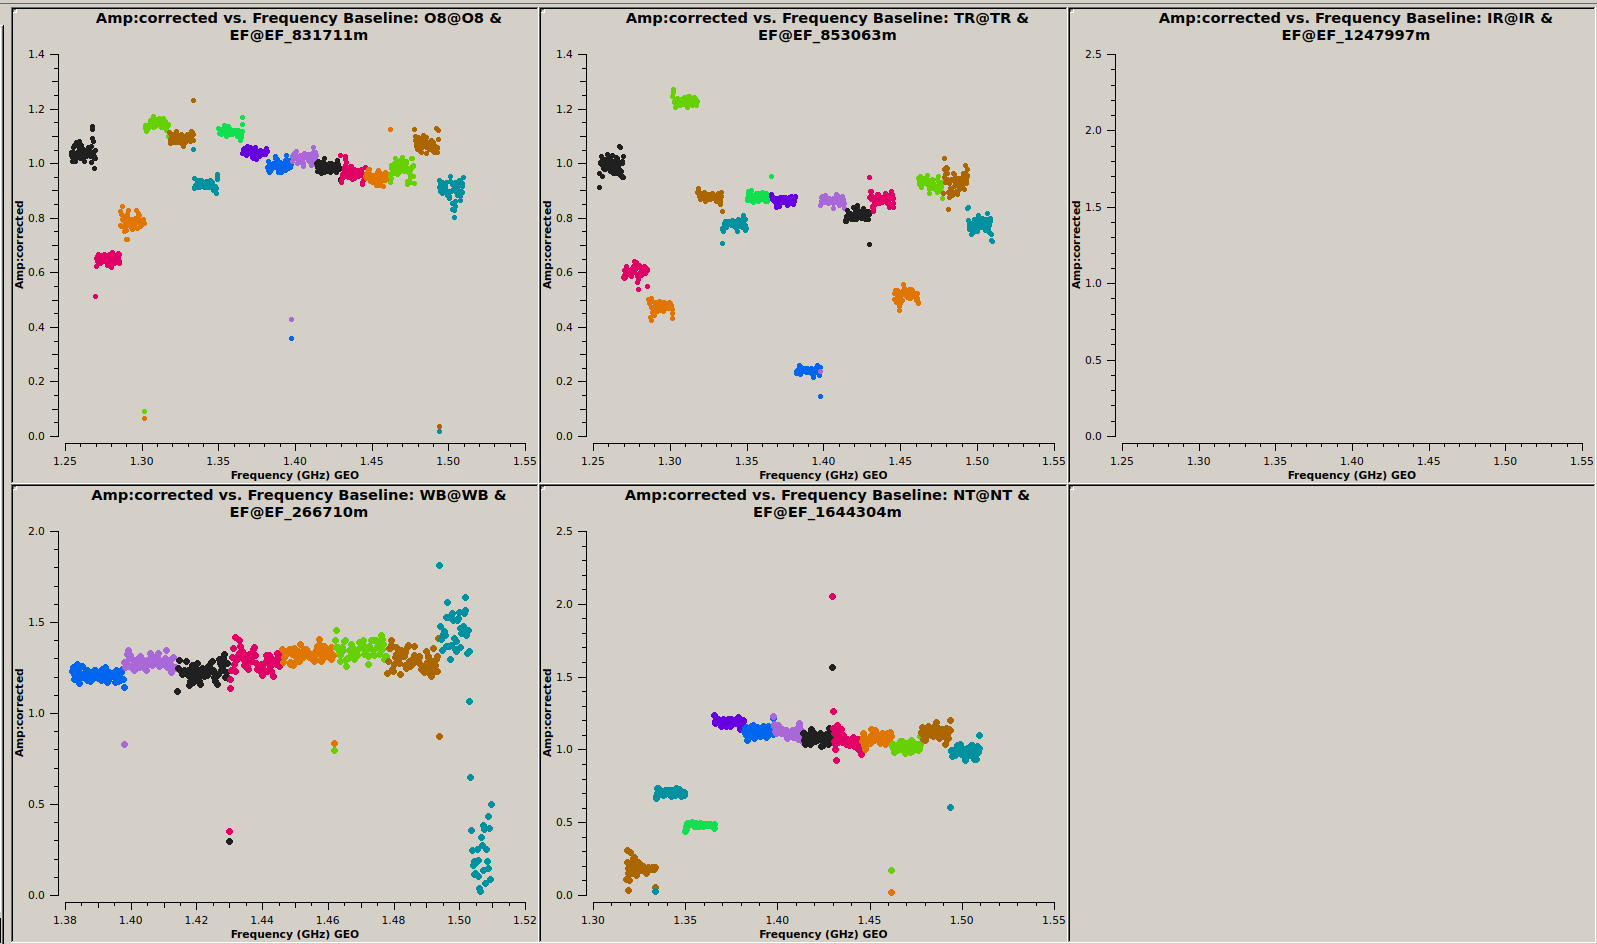
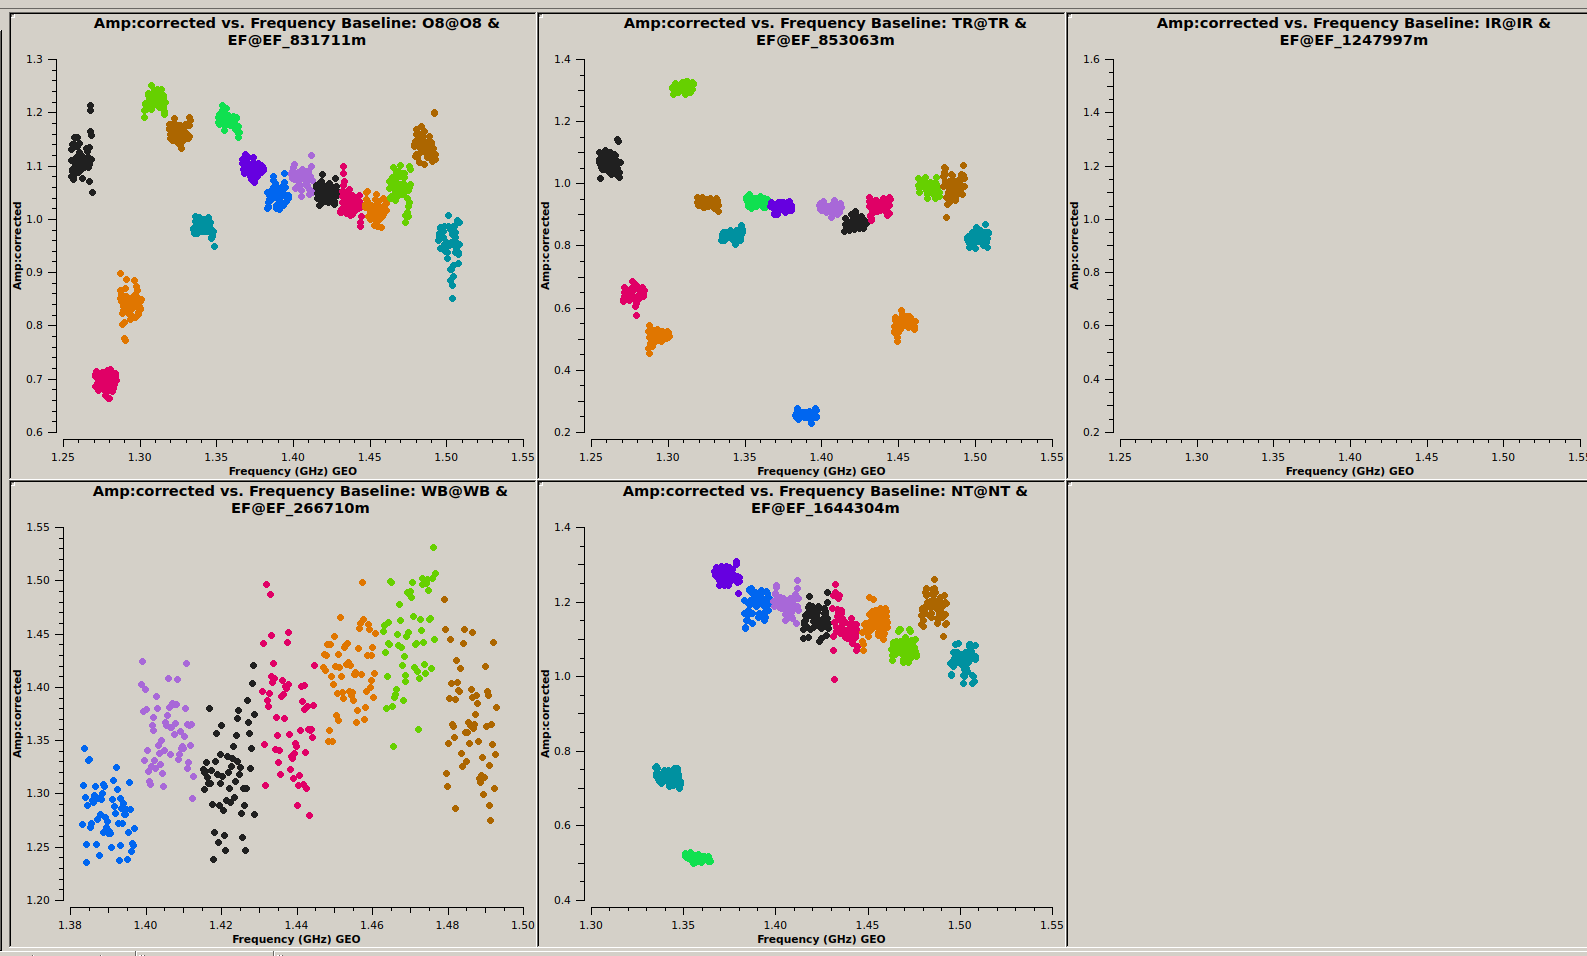
last test of tutorial, updated a few plots and added content

diff --git a/index.md b/index.md
@@ -32,8 +32,8 @@ onload = function(){
 
 # FTSky VLBI workshop 2025
 
-Welcome! This page hosts the VLBI tutorial material and guide from the FTSky
-Workshop, held at on 06–10 October 2025.
+Welcome! This page hosts the VLBI tutorial material and guide from the [FTSky
+Training School](https://www.icts.res.in/event/page/32854), held at on 06–10 October 2025.
 
 I recommend to <span style="color:red">simply clone this repository</span> and then work in the `tutorial` directory:
 
@@ -157,6 +157,9 @@ you've successfully entered into an interactive casa session by running:
 
 ```bash
 casa
+
+# and change into the directory where all our data are (it was mounted into /data)
+cd /data
 ```
 
 This should give you the familiar ipython prompt and a logging window should have popped up.
@@ -200,6 +203,7 @@ importfitsidi(fitsidifile=cont_idifiles, vis=CONT, constobsid=True, scanreindexg
 importfitsidi(fitsidifile=gate_idifiles, vis=GATE, constobsid=True, scanreindexgap_s=15.0)
 ```
 
+- Do take a look at what's happening in the logger while the above is running.
 - We can take a look and get a summary of the observations in the following way:
 
 ```python
@@ -210,8 +214,8 @@ listobs(vis=GATE, overwrite=True, listfile='listobs_gate.txt')
 - and take a look via
 
 ```bash
-less listobs_cont.txt
-less listobs_gate.txt
+less listobs_cont.txt  # this contains pretty much all the data
+less listobs_gate.txt  # here you will see only the gated data; in total there were 13 bursts that now appear as separate scans of 2s duration each
 ```
 
 - let's apply some flagging -- we're getting rid of the band edges, the autocorrelations,
@@ -223,7 +227,12 @@ run -i -e './flagging.py'
 
 - Now we'll apply some a-priori amplitude calibration using the provided system
   temperature curves. The idea here is to get the fluxes of the sources right based on
-  the known SEFDs of each station
+  the known SEFDs of each station and the measured system temperature at the time.
+
+> **NOTE:** You will see a lot messages on the prompt telling you that "Tsys for ant id=XY
+> in spw YX are all negative or zero. This is fine because not all antennas observed all
+> subbands. We have a so-called mixed-band setup where different antennas cover different
+> parts of the band. Only Effelsberg, Onsala and Torun completely overlap.
 
 ```python
 run -i -e './apriori-cal.py'
@@ -326,8 +335,8 @@ applycal(vis=CONT, field='J0502+2516, J0530+1331',
   generate one plot per scan to see if there are scans with failed calibration.
 
 ```python
-plotms(vis=CONT, gridrows=4, gridcols=4, xaxis='channel', yaxis='phase',
-       field='J0502+2516', avgtime='60', iteraxis='scan', coloraxis='corr',
+plotms(vis=CONT, gridrows=4, gridcols=4, xaxis='frequency', yaxis='phase',
+       field='J0502+2516', avgtime='60', iteraxis='scan', coloraxis='spw',
        correlation='RR, LL',ydatacolumn='corrected',
        avgchannel='8', antenna='EF')
 ```
@@ -336,12 +345,14 @@ plotms(vis=CONT, gridrows=4, gridcols=4, xaxis='channel', yaxis='phase',
 
 <a name="fig-4">**Figure 4**</a> - *Calibrated phases per scan for the phase calibrator on
 all baselines involving the Effelsberg telescope. The phases are flat across the band and
-scattered around zero. The color-coding is per polarisation.*
+scattered around zero. The color-coding is per subband (IF). It seems there is a
+particular frequency range affected by RFI -- try and flag it later on to improve the calibration.*
 
 
 #### Bandpass calibration
 
-As each subband has a certain spectral response, we will create a bandpass calibration table,
+As each subband has a certain spectral response (see [Figure 2](#fig-2)). However, we
+expect our calibrators to have a flat spectrum across the band. Therefore,  we will create a bandpass calibration table,
 again running on a bright, flat-spectrum source such as our fringe finder:
 
 ```python
@@ -358,7 +369,7 @@ bandpass(vis=CONT, caltable='cont.bpass', field='J0530+1331',
 
 ```python
 plotms(vis='cont.bpass', xaxis='frequency', yaxis='amp',
-       coloraxis='corr', iteraxis='antenna', gridrows=2, gridcols=4)
+       coloraxis='corr', iteraxis='antenna', gridrows=2, gridcols=3)
 ```
 
 <img src="figures/bpass.png" alt="drawing" style="width: 90%;height: auto;" class="center"/>
@@ -382,7 +393,7 @@ applycal(vis=CONT, field='J0502+2516, J0530+1331',
   ([Figure 6](#fig-6) and [Figure 7](#fig-7)).
 
 ```python
-plotms(vis=CONT, gridrows=2, gridcols=3, xaxis='frequency', yaxis='phase',
+plotms(vis=CONT, gridrows=2, gridcols=3, xaxis='frequency', yaxis='amp',
        field='J0530+1331',timerange='15:02:00.0~15:03:00.0',
        avgtime='60', iteraxis='baseline', coloraxis='spw',
        correlation='RR', antenna='EF',
@@ -424,7 +435,7 @@ applycal(vis=CONT, field='J0501+2530',
   measurement set that only contains the calibrated data. We also apply some averaging on the fly:
 
 ```python
-split(vis=CONT, outputvis='chksrc.ms', field='J0501+2530',
+split(vis=CONT, outputvis=CHKSRC, field='J0501+2530',
       correlation='RR, LL', datacolumn='corrected',
       keepflags=False,
       width='4', timebin='32s')
@@ -442,6 +453,10 @@ tclean(vis=CHKSRC, imagename='chksrc.image', specmode='mfs', nterms=1,
 
 - Take a look at the output with `imview`. The file you'll want to look at is called
   `chksrc.image.image` ([Figure 8](#fig-8))
+
+```python
+imview('chksrc.image.image')
+```
 
 <img src="figures/chksrc-CLEANed.png" alt="drawing" style="width: 60%;height: auto;" class="center"/>
 
@@ -478,6 +493,11 @@ for i in range(1,14):
 - you can again take a look at the individual bursts with `imview`. The files will be
   called `burst[1-13].image.image` (see [Figure 9](#fig-9) for the dirty image of Burst 1.)
 
+```python
+from natsort import natsort_keygen
+burst_images = sorted(glob.glob('burst*.image.image'), key=natsort_keygen())
+imview(burst_images)
+```
 
 <img src="figures/burst1_dirty.png" alt="drawing" style="width: 60%;height: auto;" class="center"/>
 
@@ -507,14 +527,21 @@ burst 5 here). The combination of bursts occuring at different times leads to a 
 filled uv-plane and, eventually, gives us a single peak in the dirty image. This is the
 precise localisation of the target source.*
 
-## Bonus questions
+## Bonus questions/tasks
 - In [Figure 9](#fig-9) we see that two baselines dominate the cross pattern. Which
   baselines are these and how would you figure it out?
 - Make the same image as [Figure 10](#fig-10) but including all baselines. In what way are
   the images different/similar and why?
 - Why is the check-source in the middle of the created figure ([Figure 8](#fig-8)) while
   the FRB-source is not ([Figure 10](#fig-10))?
-
+- For the fun of it you can also image the phase calibrator source
+  (`field='J0502+2516,'`). I would suggest you restrict yourself to 3 scans spread across
+  the obsevation as imaging all scans at once takes a long time in Casa.
+- You can also try and create a deep image of the target field by applying all calibration
+  to the target (`field='R67_D'`) in the measurement set that contains all the data
+  (i.e. the one we referred to as `CONT`); then split out the target and image with
+  `tclean`. Note that the imaging process might take a long time as it's a fair bit of
+  data. Maybe try this out on one scan only at first.
 
 ## Resources
 The calibration steps above are largely just following what other tutorials have done
